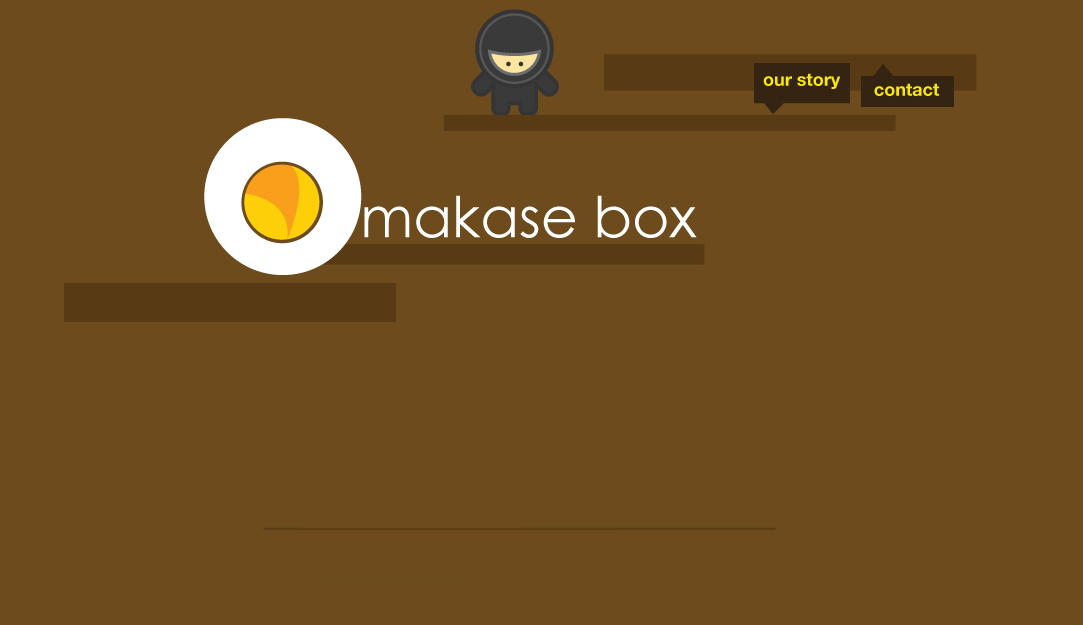
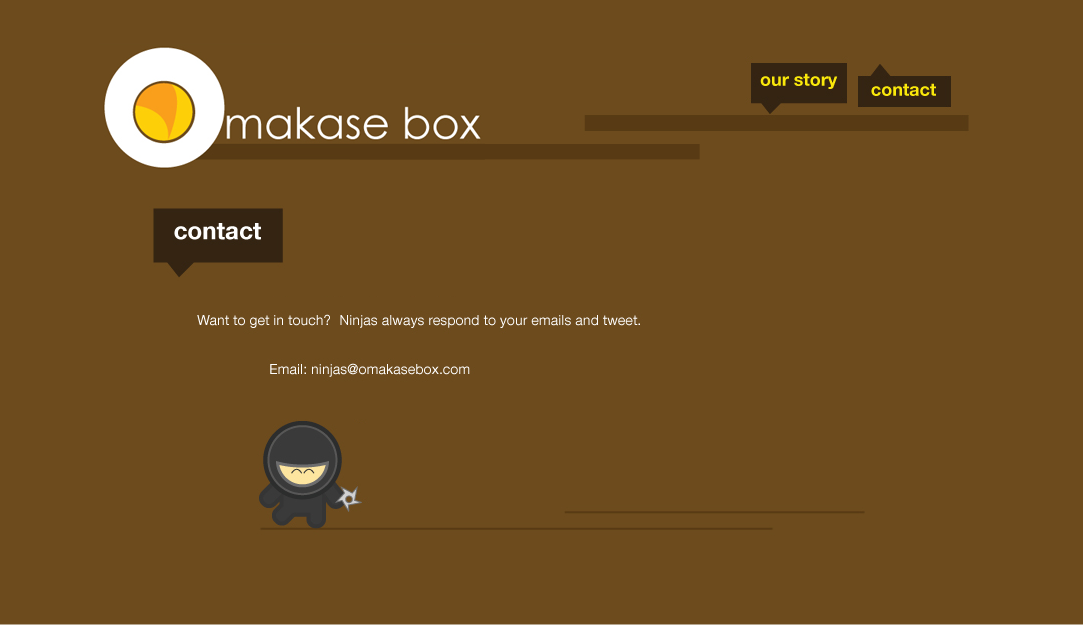
Fixed story and contact

diff --git a/public/stylesheets/style.css b/public/stylesheets/style.css
@@ -1,4 +1,4 @@
-html, body, div, span, object, iframe, h1, h2, h4, h5, h6, a, em, img, strong, u, i, dl, dt, dd, form, tr, th, td, footer, header, menu, nav{
+html, body, div, span, object, iframe, h1, h2, h4, h5, h6, a, em, img, u, i, dl, dt, dd, form, tr, th, td, footer, header, menu, nav{
 	margin: 0;
 	padding: 0;
 	border: 0;
@@ -28,11 +28,12 @@ position:relative;
 }
 
 #logo {
-width:511px;
-height:180px;
+
+width:400px;
+height:130px;
 position:absolute;
-top:100px;
-left:190px;
+top:40px;
+left:100px;
 
 }
 
@@ -155,13 +156,36 @@ position:relative;
 }
 
 .container {
+
 position:absolute;
-width:561px;
+width:541px;
 height:249px;
-right:100px;
+left:140px;
 top:270px;
 
 }
+
+.container-1 {
+
+position:absolute;
+width:541px;
+height:89px;
+left:140px;
+top:236px;
+
+}
+
+.container-2 {
+
+position:absolute;
+width:840px;
+height:189px;
+left:140px;
+top:316px;
+
+}
+
+
 
 #story .title {
 position:absolute;

diff --git a/public/javascripts/facebook-init.js b/public/javascripts/facebook-init.js
@@ -1,0 +1,7 @@
+
+  FB.init({
+	appId  : '202763786417566',
+	status : true, // check login status
+	cookie : true, // enable cookies to allow the server to access the session
+	xfbml  : true  // parse XFBML
+  });

diff --git a/config/routes.rb b/config/routes.rb
@@ -4,7 +4,7 @@ Omakase::Application.routes.draw do
 
   get "/contact" => 'home#contact'
 
-
+  get '/fb' => 'home#fb'
 	root :to => "subscriptions#new"
 
 	resources :subscriptions, :only => [:create, :new]

diff --git a/app/controllers/home_controller.rb b/app/controllers/home_controller.rb
@@ -5,4 +5,8 @@ class HomeController < ApplicationController
   def contact
   end
 
+  def fb
+		
+	end
+
 end
